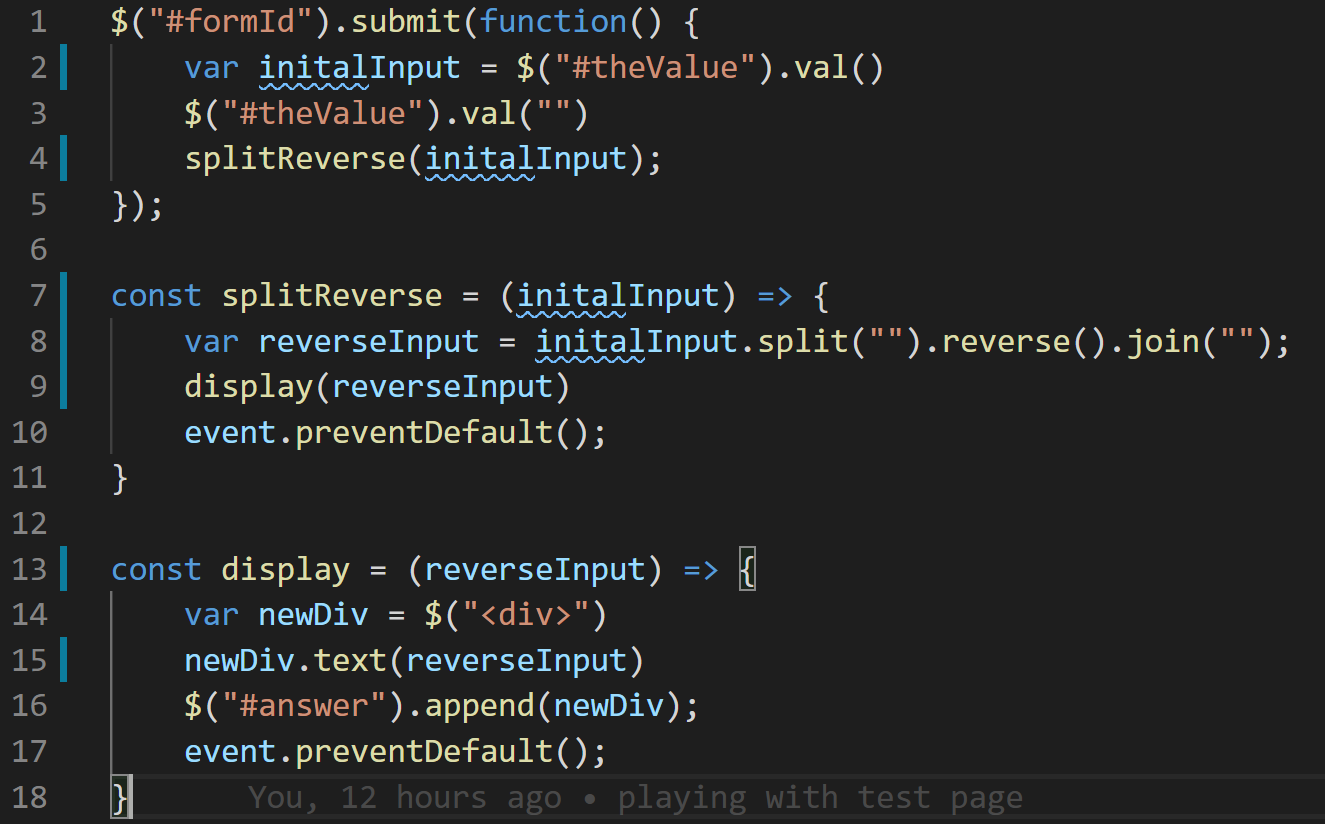
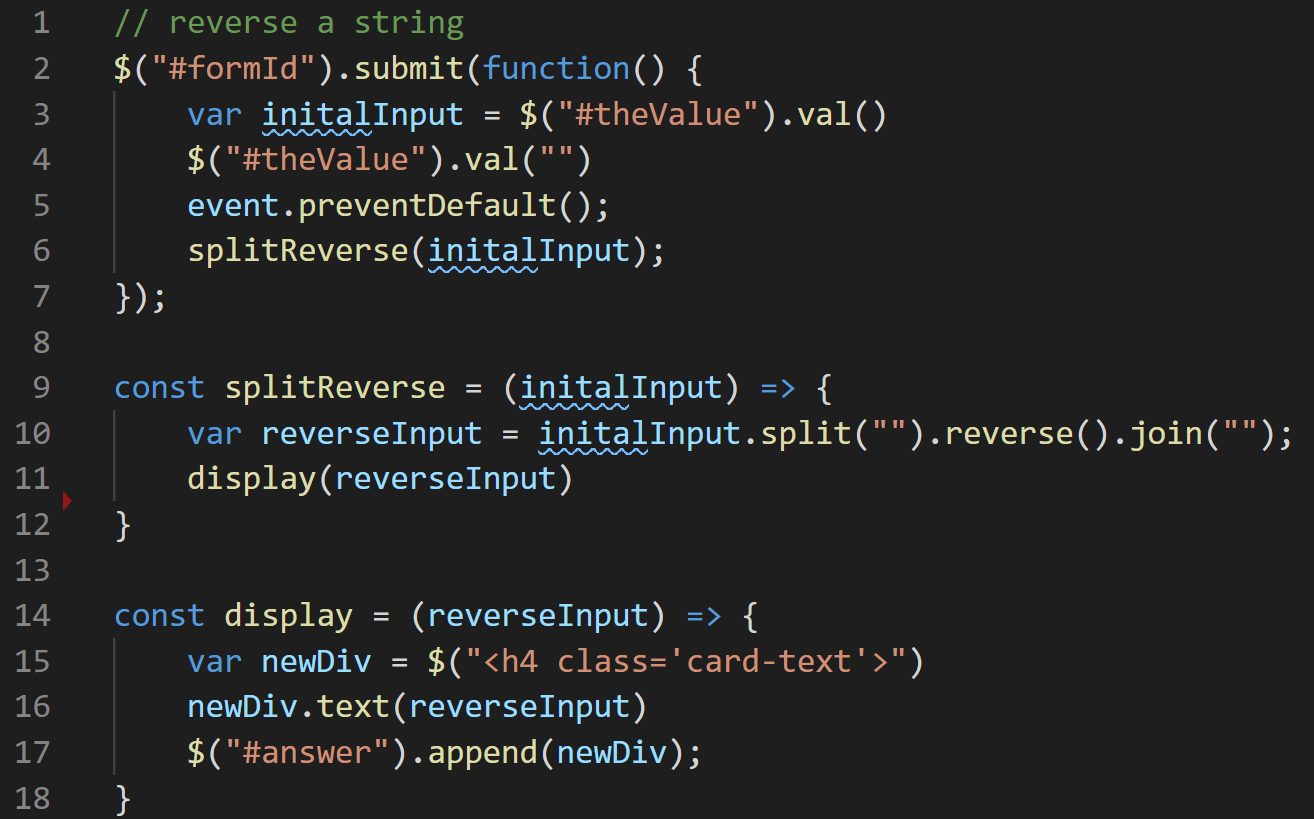
fixed image for reverse a string

diff --git a/excersises.html b/excersises.html
@@ -96,8 +96,6 @@
                 <!-- Displays to DOM -->
                 <div class="mt-3" id="answer">
                 </div>
-                <div id="userInput">
-                </div>
                   </div>
               </div>
             </div>
@@ -129,7 +127,7 @@
               </p>
               <div class="collapse" id="collapseExample1">
                 <div class="card card-body">
-                  <img src="assets/codeImages/ReverserJSLogic.png" class="card-img-top" alt="...">
+                  <img src="assets/codeImages/reverseArray.png" class="card-img-top" alt="...">
                   
                 </div>
               </div>
@@ -138,7 +136,7 @@
                   <h6 class="card-title text-muted">Methods Used</h6>
                   <p class="card-text">.reverse()</p>
                   <h6 class="card-title text-muted">How it works</h6>
-                  <p class="card-text">.reverse() reverses arrays.</p>
+                  <p class="card-text">.split(" ") splits the string on the space in to arrays. .reverse() reverses the array.</p>
                 <!-- user input -->
                 <form class="form-inline" id="reverseArray">
                   <div class="form-group">

diff --git a/exercises.js b/exercises.js
@@ -1,10 +1,10 @@
-// splitting letters
-var splitReverse = (data) => {
-    var data = $("#reverseInput").val();
-    var newNumber = data.toString().split("").reverse();
-    $("#reverseOutput").append(newNumber);
-    // countZeros(newNumber);
-}
+// // splitting letters
+// var splitReverse = (data) => {
+//     var data = $("#reverseInput").val();
+//     var newNumber = data.toString().split("").reverse();
+//     $("#reverseOutput").append(newNumber);
+//     // countZeros(newNumber);
+// }
 
 
 var countZeros = (newNumber) => {
@@ -20,25 +20,4 @@ var countZeros = (newNumber) => {
     console.log('count ' + count)
 }
 
-// reverse a string
-$("#formId").submit(function() {
-    var initalInput = $("#theValue").val() 
-    $("#theValue").val("")
-    event.preventDefault();
-    splitReverse(initalInput);
-});
-
-const splitReverse = (initalInput) => {
-    var reverseInput = initalInput.split("").reverse().join("");
-    display(reverseInput)
-    event.preventDefault();
-}
-
-const display = (reverseInput) => {
-    var newDiv = $("<h4 class='card-text'>")
-    newDiv.text(reverseInput)
-    $("#answer").append(newDiv);
-    event.preventDefault();
-
-}
 

diff --git a/test.js b/test.js
@@ -20,22 +20,19 @@ const display = (reverseInput) => {
 
 // reverse an array
 $("#reverseArray").submit(function() {
-    var initalArray = $("#arrayValues");
+    var initalArray = $("#arrayValues").val();
     $("#arrayValues").val("");
-    reversAr(initalArray);
     event.preventDefault();
+    reverseAr(initalArray);
 })
 
 const reverseAr = (initalArray) => {
-    var reversArr = initalArray;
-    reversArr.reverse();
-    event.preventDefault();
+    var newArr = initalArray.split(" ").reverse();
+    dispArry(newArr);
 }
 
-const dispArry = (reversArr) => {
+const dispArry = (newArr) => {
     arrDiv = $("<h4 class='card-text'>")
-    arrDiv.text(reversArr)
+    arrDiv.text(newArr)
     $("#arrayDisplay").append(arrDiv)
-    event.preventDefault();
-
 }
